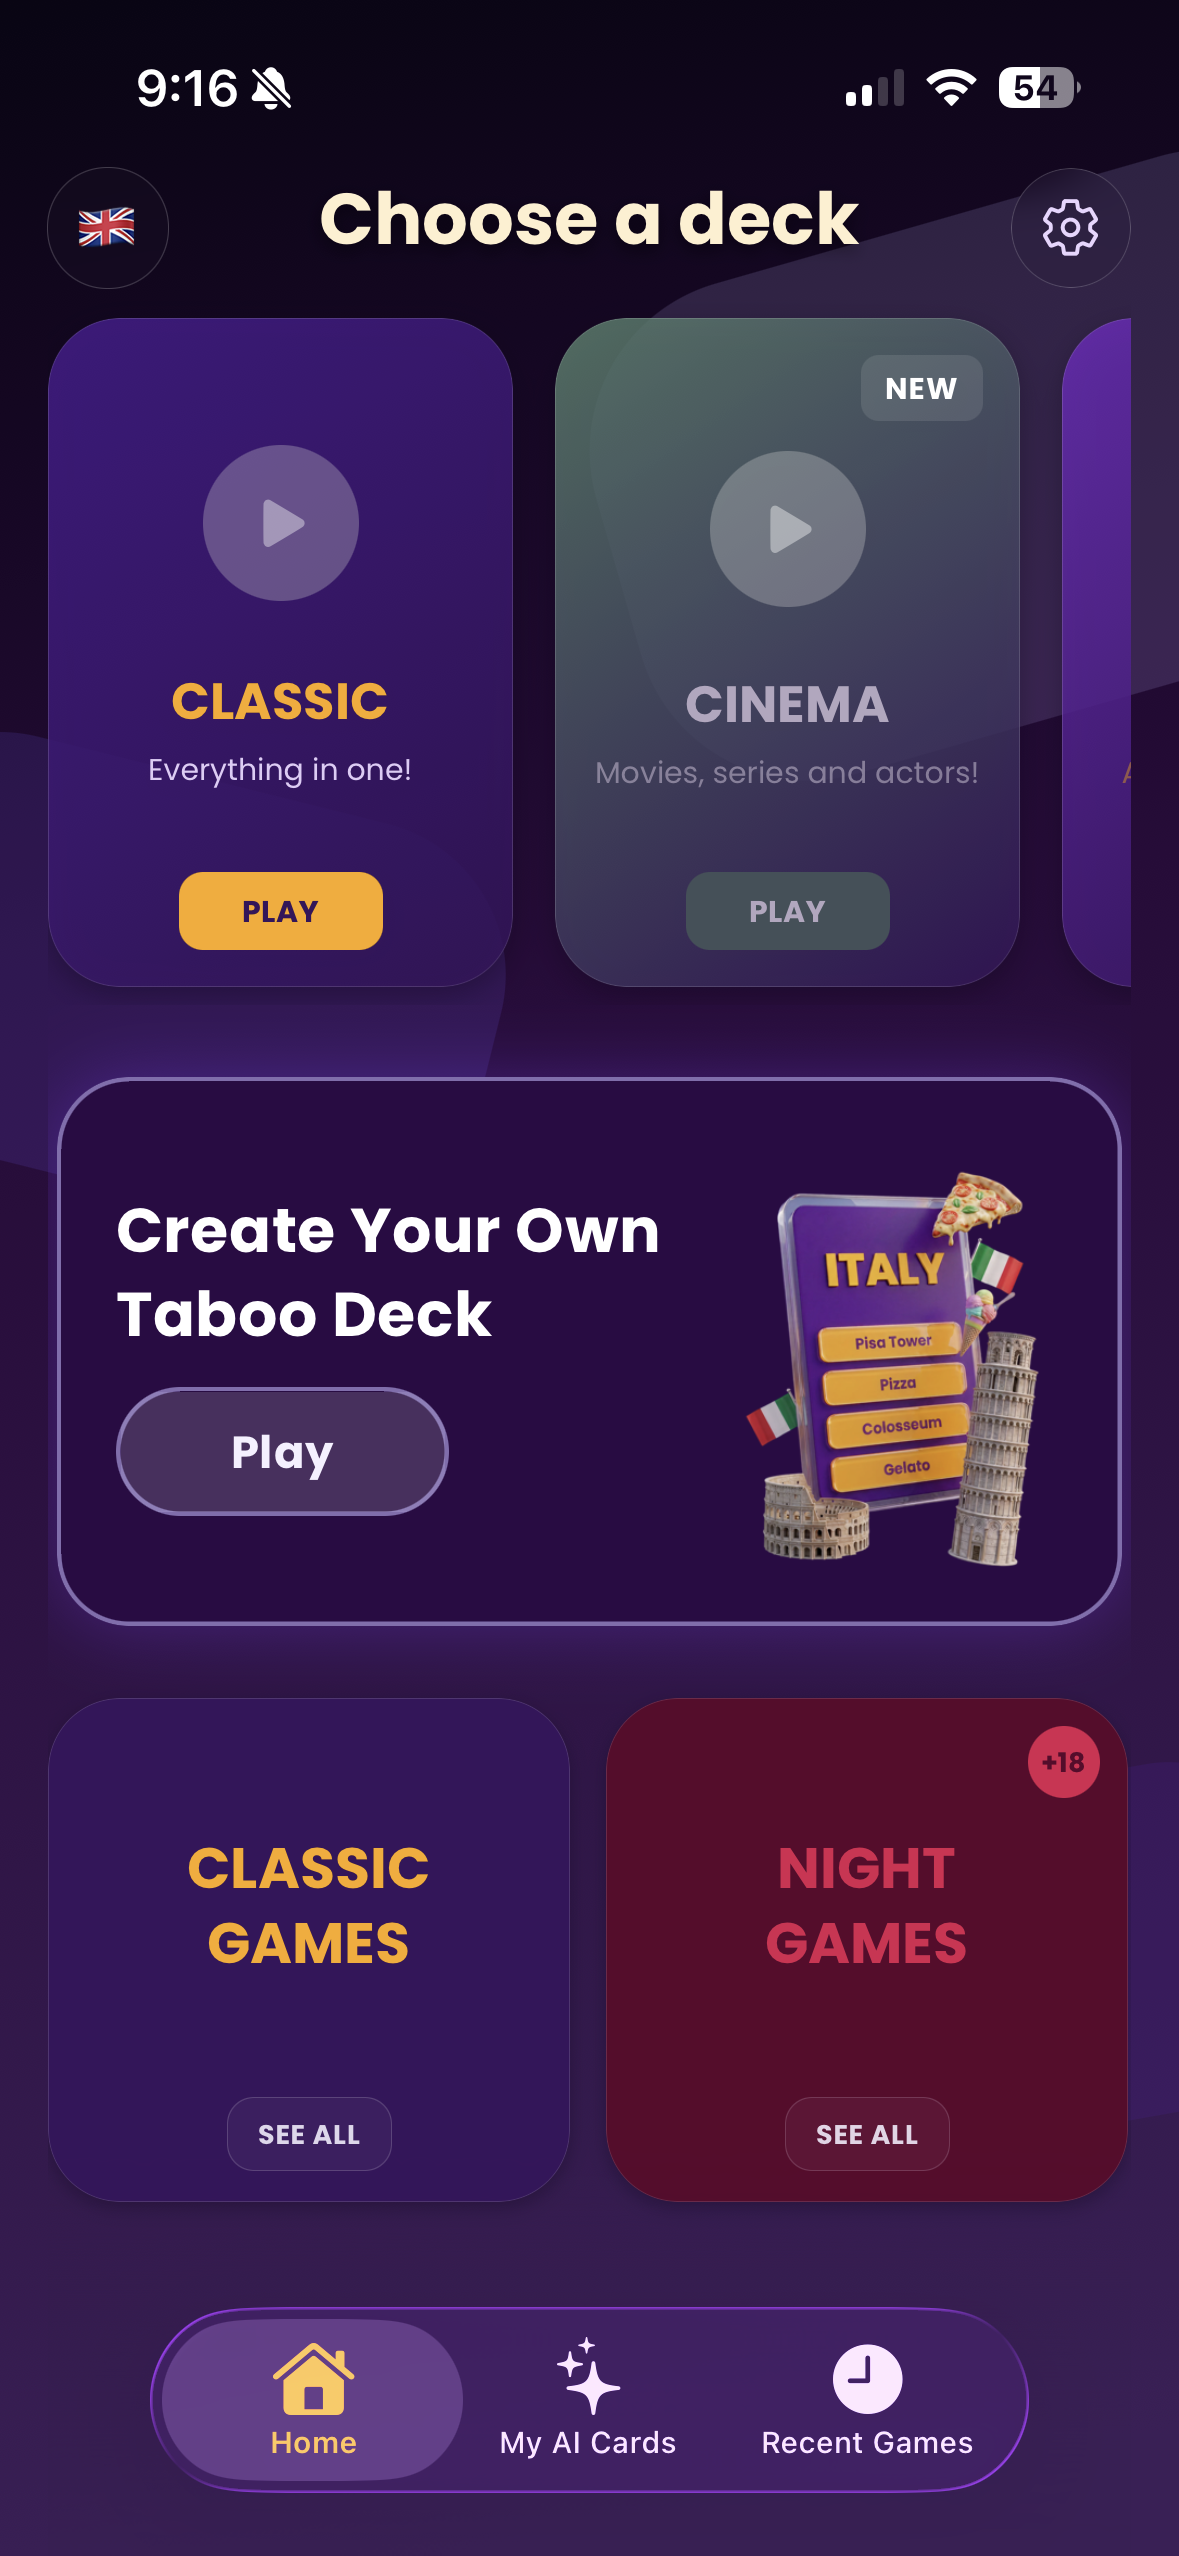
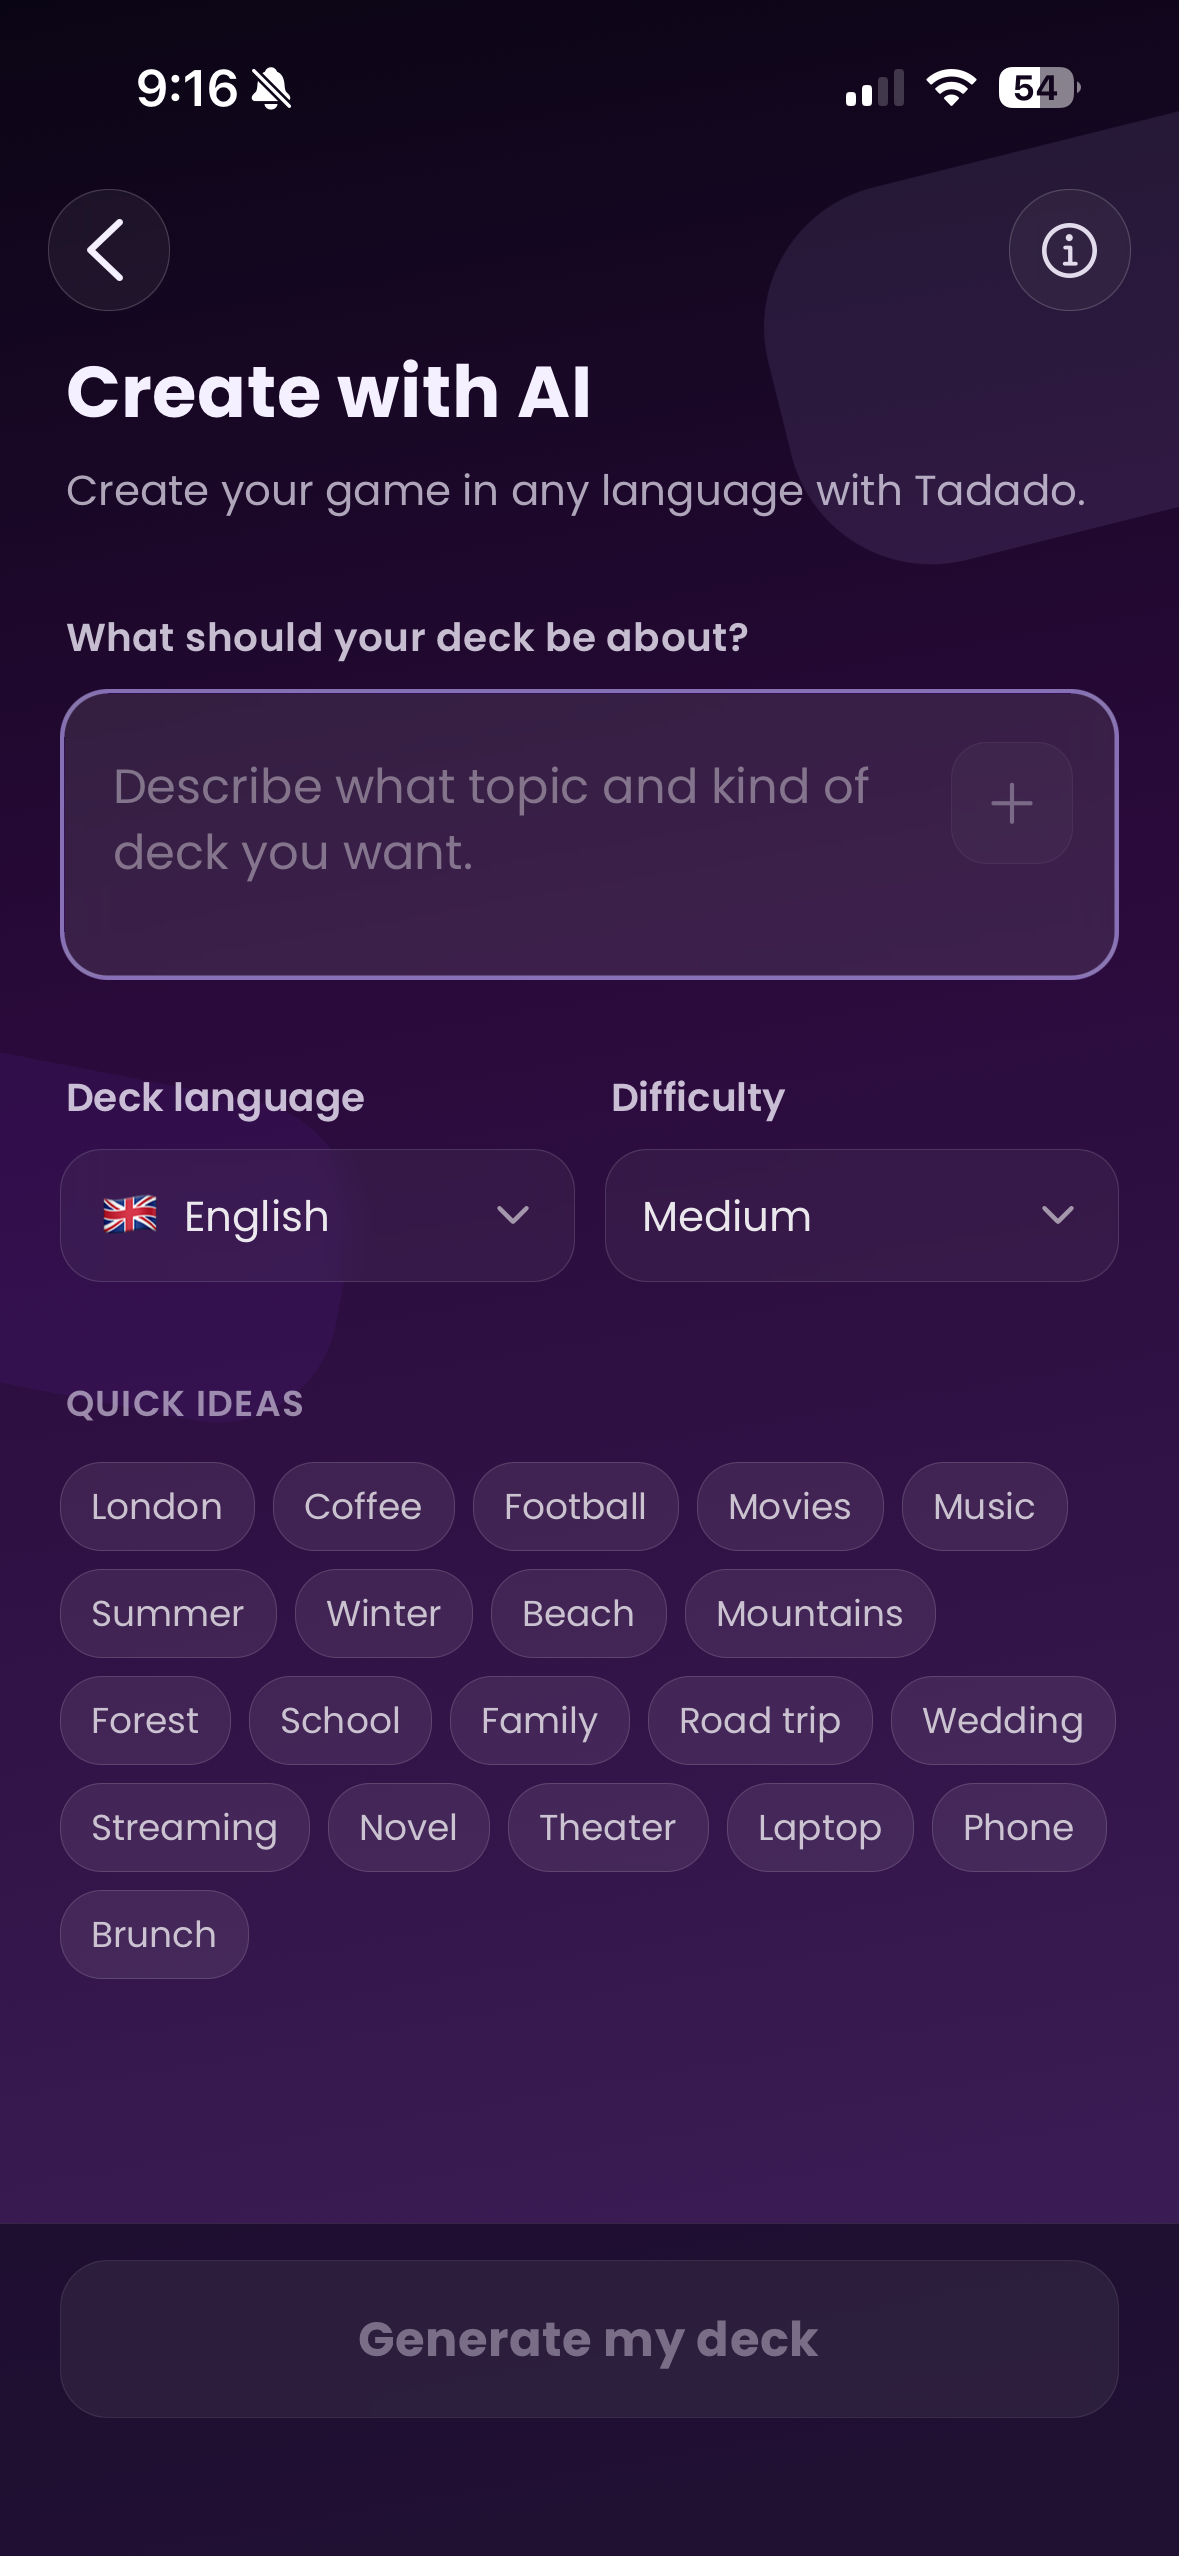
feat: new feature

diff --git a/src/components/PromptCycler.tsx b/src/components/PromptCycler.tsx
@@ -1,34 +1,80 @@
-import { useEffect, useState } from "react";
+import { useEffect, useState, type ReactNode } from "react";
 
-const PROMPTS = [
-  '"90s sci-fi movies and cult classics"',
-  '"Office inside jokes from last summer"',
-  '"Y2K pop culture, trashy and beloved"',
-  '"Italian dinner party, but chaotic"',
-  '"Things only millennials still say"',
+type Mode = {
+  label: string;
+  hint: string;
+  content: ReactNode;
+};
+
+const MODES: Mode[] = [
+  {
+    label: "Describe it",
+    hint: "Full sentences — the AI reads the vibe",
+    content: (
+      <span className="text-xl font-medium text-pretty">
+        "A deck about our friend group's inside jokes from last summer"
+      </span>
+    ),
+  },
+  {
+    label: "Quick picks",
+    hint: "Tap suggestions — done in one second",
+    content: (
+      <div className="flex flex-wrap gap-2">
+        {["Travel", "Food", "Sports", "Family", "School", "Fun"].map((w) => (
+          <span
+            key={w}
+            className="rounded-full border border-primary/30 bg-primary/10 px-3 py-1.5 text-sm font-semibold text-primary"
+          >
+            {w}
+          </span>
+        ))}
+      </div>
+    ),
+  },
+  {
+    label: "Single words",
+    hint: "One word is enough — the engine fills in the rest",
+    content: (
+      <div className="flex flex-wrap gap-2">
+        {["Marvel", "90s", "Istanbul", "Office"].map((w) => (
+          <span
+            key={w}
+            className="rounded-full border border-white/15 bg-white/5 px-3 py-1.5 text-sm font-medium text-foreground/80"
+          >
+            {w}
+          </span>
+        ))}
+      </div>
+    ),
+  },
 ];
 
 export function PromptCycler() {
   const [i, setI] = useState(0);
   useEffect(() => {
-    const id = setInterval(() => setI((v) => (v + 1) % PROMPTS.length), 2800);
+    const id = setInterval(() => setI((v) => (v + 1) % MODES.length), 3200);
     return () => clearInterval(id);
   }, []);
+  const mode = MODES[i];
   return (
     <div className="p-6 bg-black/30 rounded-2xl border border-border space-y-4">
-      <div className="font-mono text-xs text-foreground/50 uppercase tracking-widest">
-        Prompt Input
-      </div>
-      <div className="text-xl font-medium min-h-[1.75rem]">
-        <span key={i} className="inline-block animate-reveal">
-          {PROMPTS[i]}
+      <div className="flex items-center justify-between gap-3">
+        <div className="font-mono text-xs text-foreground/50 uppercase tracking-widest">
+          Create with AI
+        </div>
+        <span className="font-mono text-[10px] font-bold uppercase tracking-widest text-primary px-2 py-1 rounded-full bg-primary/10 border border-primary/25">
+          {mode.label}
         </span>
+      </div>
+      <div key={i} className="min-h-[3.5rem] animate-reveal">
+        {mode.content}
       </div>
       <div className="h-1 w-full bg-white/10 rounded-full overflow-hidden">
         <div key={i} className="h-full bg-primary animate-loading-bar" />
       </div>
       <div className="font-mono text-[10px] text-foreground/50 uppercase tracking-widest pt-1">
-        Generating cards · forbidden words · scoring rules
+        {mode.hint} · smarter engine · cards · forbidden words · difficulty
       </div>
     </div>
   );

diff --git a/src/components/AiEngine.tsx b/src/components/AiEngine.tsx
@@ -7,13 +7,13 @@ import aiShot from "@/assets/shot-1113.jpg";
 const FLOW = [
   {
     n: "A",
-    title: "Type your topics",
-    body: "Up to 12 of them or tap suggestions like Travel, Food, Family. Anything your group obsesses over.",
+    title: "Tell it what you want",
+    body: "Write a full sentence, tap quick picks like Travel or Food, or drop in a single word. However you describe it, the engine understands.",
   },
   {
     n: "B",
-    title: "AI builds the deck",
-    body: "Target words, forbidden words, difficulty a complete custom deck generated in seconds.",
+    title: "Smarter AI builds the deck",
+    body: "The new engine reads context, tone and difficulty — then generates target words, forbidden words and a complete playable deck in seconds.",
   },
   {
     n: "C",
@@ -34,8 +34,8 @@ export function AiEngine() {
               The Engine
             </span>
             <h2 className="text-4xl md:text-6xl font-extrabold tracking-tighter leading-[0.95]">
-              Run out of cards? <br />
-              <span className="text-primary">Impossible.</span>
+              Describe the vibe. <br />
+              <span className="text-primary">AI gets it.</span>
             </h2>
             <PromptCycler />
             <div className="space-y-6">
@@ -70,7 +70,7 @@ export function AiEngine() {
             <div ref={phoneRef} className="relative w-[17rem] md:w-[20rem]">
               <PhoneShot
                 src={aiShot}
-                alt="Tadado Create with AI — add up to 12 topics and AI builds your custom deck"
+                alt="Tadado Create with AI — describe your deck in sentences, quick picks or single words"
                 className="-rotate-2"
               />
             </div>

diff --git a/src/components/CinematicShowcase.tsx b/src/components/CinematicShowcase.tsx
@@ -33,9 +33,9 @@ const SCENES = [
   {
     n: "04",
     title: "Then build your own.",
-    body: "Type up to 12 topics your group chat, your fandom, your inside jokes. AI turns them into a full playable deck.",
+    body: "Describe the deck in a sentence, tap quick picks, or use a single word — the smarter AI engine turns it into a full playable deck.",
     src: aiShot,
-    alt: "Tadado Create with AI screen — add up to 12 topics and generate a deck",
+    alt: "Tadado Create with AI — describe your deck in sentences, quick picks or single words",
     tone: "text-primary",
   },
 ];

diff --git a/src/routes/support.tsx b/src/routes/support.tsx
@@ -57,7 +57,8 @@ function SupportPage() {
           <div>
             <h3 className="font-semibold text-foreground">How does AI deck generation work?</h3>
             <p className="mt-2">
-              Enter a theme or prompt and Tadado generates a custom deck of words with forbidden clues. Each deck is
+              Enter a theme as a sentence, tap quick suggestions, or use a single word. Tadado's smarter AI
+              engine reads the context and generates a custom deck of words with forbidden clues. Each deck is
               unique to your prompt and group.
             </p>
           </div>

diff --git a/src/components/Decks.tsx b/src/components/Decks.tsx
@@ -149,7 +149,7 @@ export function Decks() {
               </span>
             </div>
             <p className="text-sm text-foreground/70 text-pretty mt-4 mb-5">
-              Type up to 12 topics and AI builds a fully personalized deck. Inside jokes included.
+              Describe it in a sentence, tap quick picks, or use a single word — the smarter AI builds a deck that's fully yours.
             </p>
             <span className="font-mono text-[10px] uppercase tracking-widest text-primary">
               Create with AI →

diff --git a/src/components/Faq.tsx b/src/components/Faq.tsx
@@ -19,7 +19,7 @@ const FAQS = [
   },
   {
     q: "Can AI really create my own taboo cards?",
-    a: "Yes. Type up to 12 topics your friend group's inside jokes, your favorite series, your city or pick from suggestions like Travel, Food and Family. Tadado's AI generates a complete playable deck with target words and forbidden words, saved forever in My AI Cards. AI Credits are $2.99 for 10 decks — about 30 cents per fully custom deck.",
+    a: "Yes. Describe the deck in a full sentence, tap quick picks like Travel or Food, or drop in a single word — the smarter AI engine reads context and tone, then generates a complete playable deck with target words and forbidden words, saved forever in My AI Cards. AI Credits are $2.99 for 10 decks — about 30 cents per fully custom deck.",
   },
   {
     q: "Is Tadado popular in Türkiye? Tabu oyunu gibi mi?",

diff --git a/src/components/Hero.tsx b/src/components/Hero.tsx
@@ -38,7 +38,7 @@ export function Hero() {
           </h1>
           <p className="max-w-xl text-lg md:text-xl text-foreground/70 text-pretty mb-10 animate-reveal [animation-delay:240ms]">
             Describe the word without saying the obvious ones. Download free, start playing in
-            seconds, and collect hand-crafted decks from $0.99 or type any topic and Tadado's AI
+            seconds, and collect hand-crafted decks from $0.99 — or describe any vibe and Tadado's smarter AI
             builds a deck that's yours alone. One phone, two teams, zero boring rounds.
           </p>
           <div className="flex flex-wrap gap-3 animate-reveal [animation-delay:340ms]">

diff --git a/src/components/HowItWorks.tsx b/src/components/HowItWorks.tsx
@@ -4,7 +4,7 @@ const STEPS = [
   {
     n: "01",
     title: "Pick a deck or invent one",
-    body: "Eight different decks from Classic to Marvel, or type your own topics and let AI build a brand new one.",
+    body: "Eight different decks from Classic to Marvel, or describe your own vibe and let the smarter AI build a brand new one.",
   },
   {
     n: "02",

diff --git a/src/components/Pricing.tsx b/src/components/Pricing.tsx
@@ -20,7 +20,7 @@ const DECK_PRICES = [
 
 const AI_FEATURES = [
   "10 AI deck generations — about 30¢ per deck",
-  "Up to 12 topics per deck, fully personalized",
+  "Describe your deck in sentences, quick picks or single words",
   "Decks saved in My AI Cards, replay forever",
   "One-time purchase. Credits never expire.",
 ];